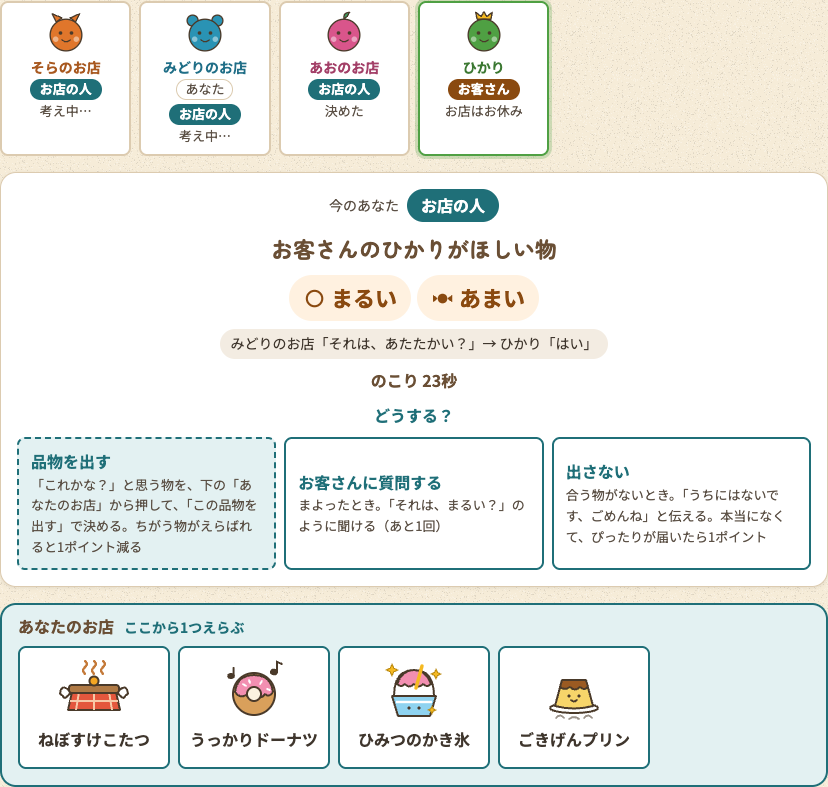
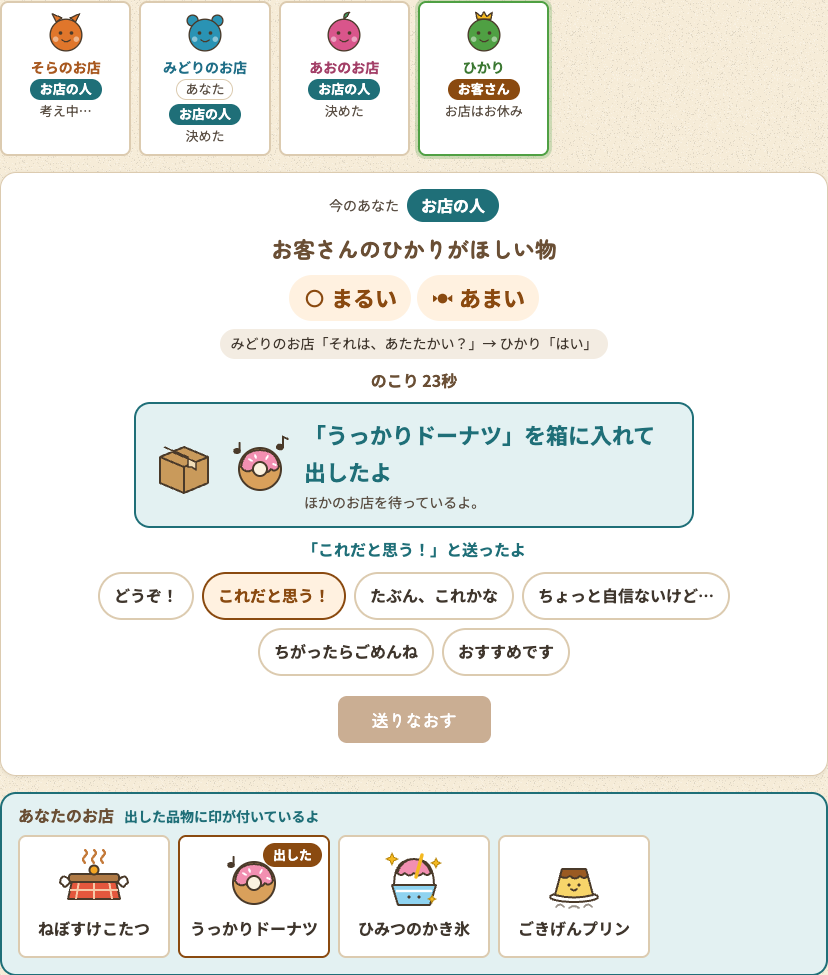
feat(arekudasai-shoten): サムネイルをコメントを送った場面で撮り直す

diff --git a/apps/index.html b/apps/index.html
@@ -3478,7 +3478,7 @@
           <div class="app-card__icon">
             <span class="material-symbols-rounded" aria-hidden="true">storefront</span>
             <img class="app-card__illust" src="assets/illustrations/arekudasai-shoten.webp" alt="" width="400" height="400" loading="lazy" decoding="async" />
-            <img class="app-card__thumbnail" src="assets/thumbnails/arekudasai-shoten.png" alt="お店の人の画面。お客さんのヒント「まるい」「あまい」と質問の答え、品物を出す・お客さんに質問する・出さないの3つの選択肢、絵だけで特徴の言葉のない4つの品物が並ぶ「あなたのお店」" width="828" height="787" loading="lazy" decoding="async" />
+            <img class="app-card__thumbnail" src="assets/thumbnails/arekudasai-shoten.png" alt="お店の人の画面。お客さんのヒント「まるい」「あまい」と質問の答え、「うっかりドーナツ」を箱に入れて出したことと、お客さんに送るコメントの6つの言葉（「これだと思う！」を送った）、出した品物に印の付いた「あなたのお店」" width="828" height="975" loading="lazy" decoding="async" />
           </div>
           <div class="app-card__body">
             <div class="app-card__name">あれください商店</div>

diff --git a/apps/arekudasai-shoten/AGENTS.md b/apps/arekudasai-shoten/AGENTS.md
@@ -95,7 +95,7 @@ apps/arekudasai-shoten/
 - `apps/index.html` にカード・`apps/updates.json` 先頭に `type: "new"`・`apps/guide/index.html`（ヒントの系統）に1行
 - イラスト `apps/assets/illustrations/arekudasai-shoten.webp`（日よけのあるお店の台に、顔の付いた品物と、ひもをかけた包み。`scripts/illustrations/prompts.json`。2026-11-15）。ツール一覧のカードと、はじめの画面（`.app-hero`）に出す
 - 説明スライド `slides.html`（17枚。2026-11-15。11-16 にコメントの1枚を足した。エンジンは `apps/kotoba-tantei/slides.html` のまま、チャンネル `arekudasai_shoten_deck`・保存キー `aks_`）。品物の例は、アプリの `engine.js`・`art.js` を読んで同じ絵で出す。「？」の「説明スライドを見る」と、ツール一覧のカード（`data-slides`）から開ける。ルールを変えたら、スライドと発表者ノートも合わせる
-- サムネイル `apps/assets/thumbnails/arekudasai-shoten.png`（お店の人の画面。撮り方は `tests/arekudasai-shoten/shot.cjs`。2026-11-15）。ツール一覧のカードの説明と、説明スライドの3枚目に出す
+- サムネイル `apps/assets/thumbnails/arekudasai-shoten.png`（お店の人が品物を出してコメントを送った画面。撮り方は `tests/arekudasai-shoten/shot.cjs`。2026-11-15。11-16 にコメントが写るよう撮り直した）。ツール一覧のカードの説明と、説明スライドの3枚目に出す
 
 ## 画面構成・フロー
 
